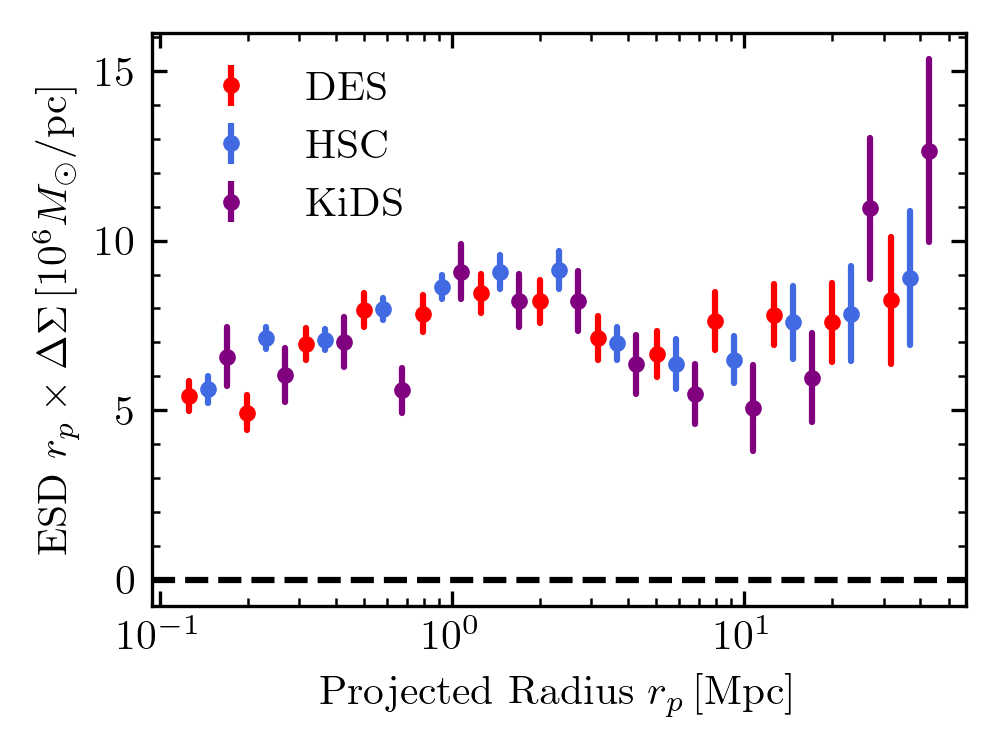
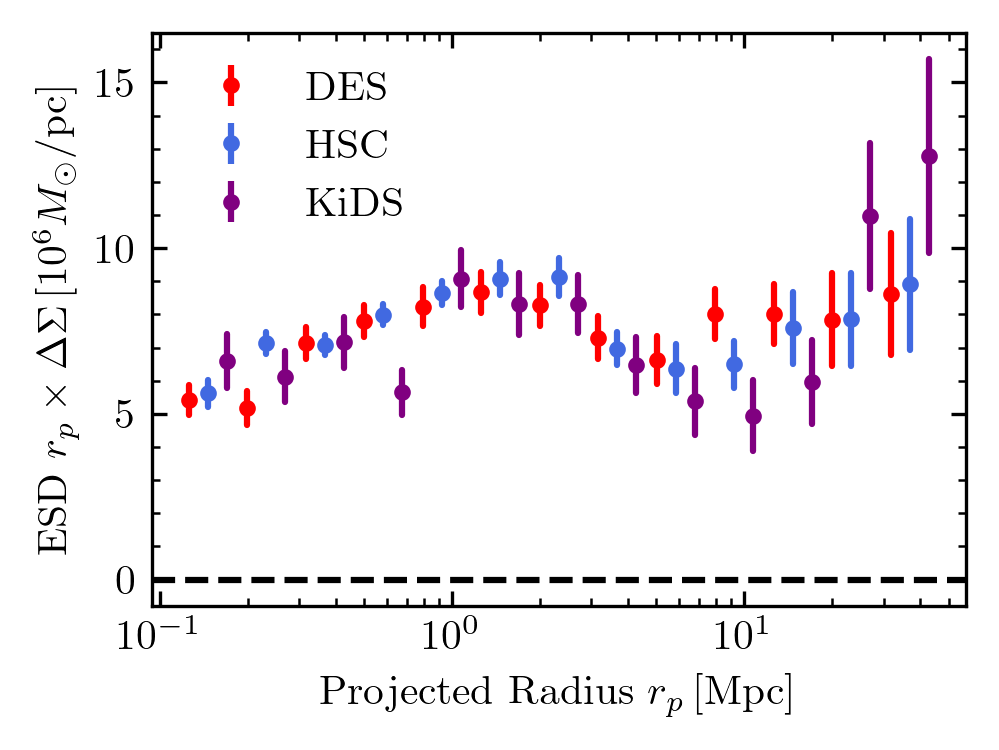
updated docs, updated DES results with correct sompz

diff --git a/tutorial/compute.py b/tutorial/compute.py
@@ -36,13 +36,13 @@ if args.survey.lower() == 'des':
     table_s = Table.read('des_y3.hdf5', path='catalog')
     table_s = dsigma_table(table_s, 'source', survey='DES')
 
+    table_s['m_sel'] = np.zeros(len(table_s))
     for z_bin in range(4):
         select = table_s['z_bin'] == z_bin
         R_sel = des.selection_response(table_s[select])
-        print("Bin {}: R_sel = {:.1f}%".format(
-            z_bin + 1, 100 * 0.5 * np.sum(np.diag(R_sel))))
-        table_s['R_11'][select] += 0.5 * np.sum(np.diag(R_sel))
-        table_s['R_22'][select] += 0.5 * np.sum(np.diag(R_sel))
+        print(f"Bin {z_bin + 1}: m_sel = "
+              f"{100 * 0.5 * np.sum(np.diag(R_sel)):.1f}%")
+        table_s['m_sel'][select] = 0.5 * np.sum(np.diag(R_sel))
 
     table_s = table_s[table_s['z_bin'] >= 0]
     table_s = table_s[table_s['flags_select']]
@@ -54,7 +54,8 @@ if args.survey.lower() == 'des':
 
     precompute_kwargs = dict(table_n=table_n, lens_source_cut=0.1)
     stacking_kwargs = dict(scalar_shear_response_correction=True,
-                           matrix_shear_response_correction=True)
+                           matrix_shear_response_correction=True,
+                           selection_bias_correction=True)
 
 elif args.survey.lower() == 'hsc':
 

diff --git a/docs/start/background.rst b/docs/start/background.rst
@@ -171,9 +171,23 @@ To apply the shear responsivity correction, we need to divide the final lensing 
 Source Selection Bias
 ~~~~~~~~~~~~~~~~~~~~~
 
-While the shear response and responsivity describe how the measured shapes of individual galaxies are affected by the measurement pipeline, the selection bias describes the phenomenon that the selection of sources, i.e., quality cuts, can depend on the intrinsic shape itself. If not corrected, this effect could lead to biases in the mean tangential shear.
+While the shear response and responsivity describe how the measured shapes of individual galaxies are affected by the measurement pipeline, the selection bias :math:`m_\mathrm{sel}` describes the phenomenon that the selection of sources, i.e., quality cuts, can depend on the intrinsic shape itself. If not corrected, this effect could lead to biases in the mean tangential shear.
 
-Correcting for selection bias is handled very differently between different surveys. Details about the selection bias in the Hyper Suprime-Cam survey can be found in section 5.6.2 of `Mandelbaum et al. (2018) <https://ui.adsabs.harvard.edu/abs/2018MNRAS.481.3170M/abstract>`_. Similarly, details on the selection bias in the Dark Energy Survey can be found in `Sheldon & Huff (2017) <https://ui.adsabs.harvard.edu/abs/2017ApJ...841...24S>`_. We also refer the reader to their respective tutorials where these correction factors are implemented. Luckily, the selection bias affects the shear only at the level of :math:`\sim 1\%`.
+Correcting for selection bias is handled differently between different surveys. :code:`dsigma` implements this by calculating per-object estimates of :math:`m_\mathrm{sel}`. One can then calculate a mean :math:`m_\mathrm{sel}` and correct the measurements for the selection bias in the same way as for the shear response term :math:`m` describe above. Luckily, the selection bias affects the shear only at the level of :math:`\sim 1\%`.
+
+Please have a look at the tutorials for DES and HSC to see how this is implemented in practice. For HSC in particular, the multiplicative selection bias takes the form
+
+.. math::
+
+    m_\mathrm{sel} = A P(R_2 = 0.3) + B P(\mathrm{mag}_A = 25.5) \, .
+
+Here, :math:`A` and :math:`B` are constants that differ between HSC Y1 and HSC Y3 and :math:`R_2` and :math:`\mathrm{mag}_A` are per-object properties that were used in the selection. Finally, :math:`P` indicates the source probability density at the edge of the selection cut. The densities can be estimated by choosing some width in :math:`R_2` and :math:`\mathrm{mag}_A` around the selection cut, i.e.,
+
+.. math::
+
+    m_\mathrm{sel} \approx \frac{A P(0.3 - \delta R_2 \leq R_2 \leq 0.3)}{\delta R_2} + \frac{B P(25.5 - \delta\mathrm{mag}_A \leq \mathrm{mag}_A \leq 25.5)}{\delta\mathrm{mag}_A} \, .
+
+This can be generalized to a per-object estimate of :math:`m_\mathrm{sel}` by setting :math:`P` to :math:`1` if :math:`R_2` or :math:`\mathrm{mag}_A` fall in the range and :math:`0`, otherwise.
 
 Random Subtraction
 ~~~~~~~~~~~~~~~~~~

diff --git a/docs/applications/des_y3.rst b/docs/applications/des_y3.rst
@@ -78,13 +78,13 @@ After running this selection response calculation, we are ready to drop all gala
     table_s = Table.read('des_y3.hdf5', path='catalog')
     table_s = dsigma_table(table_s, 'source', survey='DES')
 
+    table_s['m_sel'] = np.zeros(len(table_s))
     for z_bin in range(4):
         select = table_s['z_bin'] == z_bin
         R_sel = des.selection_response(table_s[select])
-        print("Bin {}: R_sel = {:.1f}%".format(
-            z_bin + 1, 100 * 0.5 * np.sum(np.diag(R_sel))))
-        table_s['R_11'][select] += 0.5 * np.sum(np.diag(R_sel))
-        table_s['R_22'][select] += 0.5 * np.sum(np.diag(R_sel))
+        print(f"Bin {z_bin + 1}: m_sel = "
+              f"{100 * 0.5 * np.sum(np.diag(R_sel)):.1f}%")
+        table_s['m_sel'][select] = 0.5 * np.sum(np.diag(R_sel))
 
     table_s = table_s[table_s['z_bin'] >= 0]
     table_s = table_s[table_s['flags_select']]
@@ -140,9 +140,10 @@ We choose to include all the necessary correction factors. In addition to the ma
         mask_r = ((z_bins[lens_bin] <= table_r['z']) &
                   (table_r['z'] < z_bins[lens_bin + 1]))
 
-        kwargs = {'return_table': True, 'scalar_shear_response_correction': True,
-                  'matrix_shear_response_correction': True,
-                  'random_subtraction': True, 'table_r': table_r[mask_r]}
+        kwargs = dict(return_table=True, scalar_shear_response_correction=True,
+                      matrix_shear_response_correction=True,
+                      selection_bias_correction=True
+                      random_subtraction=True, table_r=table_r[mask_r])
 
         result = excess_surface_density(table_l[mask_l], **kwargs)
         kwargs['return_table'] = False

diff --git a/docs/applications/hsc_y1.rst b/docs/applications/hsc_y1.rst
@@ -110,13 +110,13 @@ We choose to include all the necessary correction factors. The shear responsivit
         mask_r = ((z_bins[lens_bin] <= table_r['z']) &
                   (table_r['z'] < z_bins[lens_bin + 1]))
 
-        kwargs = {'return_table': True,
-                  'scalar_shear_response_correction': True,
-                  'shear_responsivity_correction': True,
-                  'selection_bias_correction': True,
-                  'boost_correction': False, 'random_subtraction': True,
-                  'photo_z_dilution_correction': True,
-                  'table_r': table_r[mask_r]}
+        kwargs = dict(return_table=True,
+                      scalar_shear_response_correction=True,
+                      shear_responsivity_correction=True,
+                      selection_bias_correction=True,
+                      boost_correction=False, random_subtraction=True,
+                      photo_z_dilution_correction=True,
+                      table_r=table_r[mask_r])
 
         result = excess_surface_density(table_l[mask_l], **kwargs)
         kwargs['return_table'] = False

diff --git a/docs/applications/hsc_y3.rst b/docs/applications/hsc_y3.rst
@@ -104,12 +104,12 @@ We choose to include all the necessary correction factors. The shear responsivit
         mask_r = ((z_bins[lens_bin] <= table_r['z']) &
                   (table_r['z'] < z_bins[lens_bin + 1]))
 
-        kwargs = {'return_table': True,
-                  'scalar_shear_response_correction': True,
-                  'shear_responsivity_correction': True,
-                  'selection_bias_correction': True,
-                  'boost_correction': False, 'random_subtraction': True,
-                  'table_r': table_r[mask_r]}
+        kwargs = dict(return_table=True,
+                      scalar_shear_response_correction=True,
+                      shear_responsivity_correction=True,
+                      selection_bias_correction=True,
+                      boost_correction=False, random_subtraction=True,
+                      table_r=table_r[mask_r])
 
         result = excess_surface_density(table_l[mask_l], **kwargs)
         kwargs['return_table'] = False

diff --git a/docs/applications/des_y1.rst b/docs/applications/des_y1.rst
@@ -257,9 +257,9 @@ estimator.
         mask_r = ((z_bins[lens_bin] <= table_r['z']) &
                   (table_r['z'] < z_bins[lens_bin + 1]))
 
-        kwargs = {'return_table': True, 'photo_z_dilution_correction': True,
-                  'matrix_shear_response_correction': True,
-                  'random_subtraction': True, 'table_r': table_r[mask_r]}
+        kwargs = dict(return_table=True, photo_z_dilution_correction=True,
+                      matrix_shear_response_correction=True,
+                      random_subtraction=True, table_r=table_r[mask_r])
 
         result = excess_surface_density(table_l[mask_l], **kwargs)
         kwargs['return_table'] = False

diff --git a/docs/applications/kids-1000.rst b/docs/applications/kids-1000.rst
@@ -93,9 +93,9 @@ We choose to include all the necessary correction factors. The multiplicative sh
         mask_r = ((z_bins[lens_bin] <= table_r['z']) &
                   (table_r['z'] < z_bins[lens_bin + 1]))
 
-        kwargs = {'return_table': True,
-                  'scalar_shear_response_correction': True,
-                  'random_subtraction': True, 'table_r': table_r[mask_r]}
+        kwargs = dict(return_table=True,
+                      scalar_shear_response_correction=True,
+                      random_subtraction=True, table_r=table_r[mask_r])
 
         result = excess_surface_density(table_l[mask_l], **kwargs)
         kwargs['return_table'] = False
